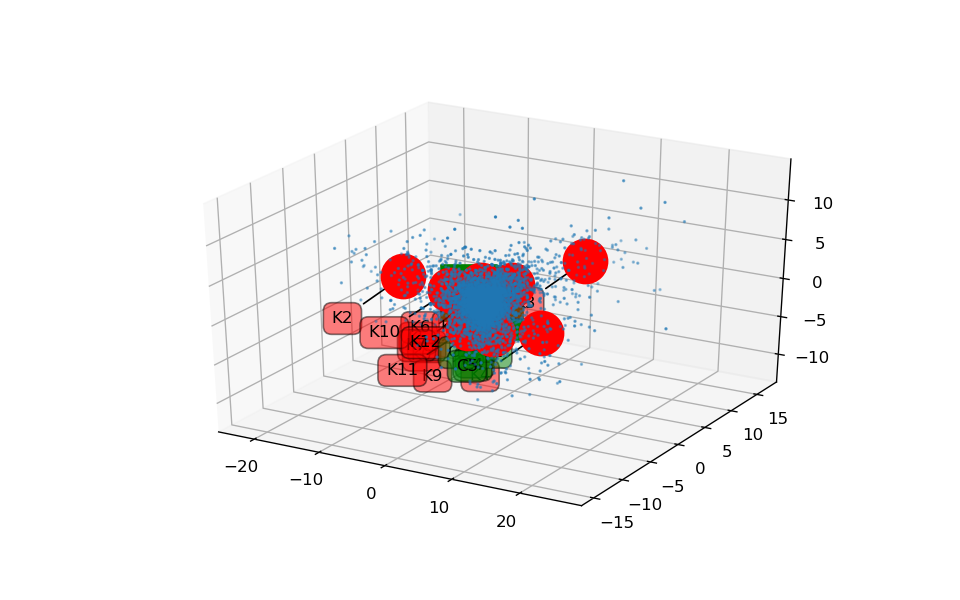
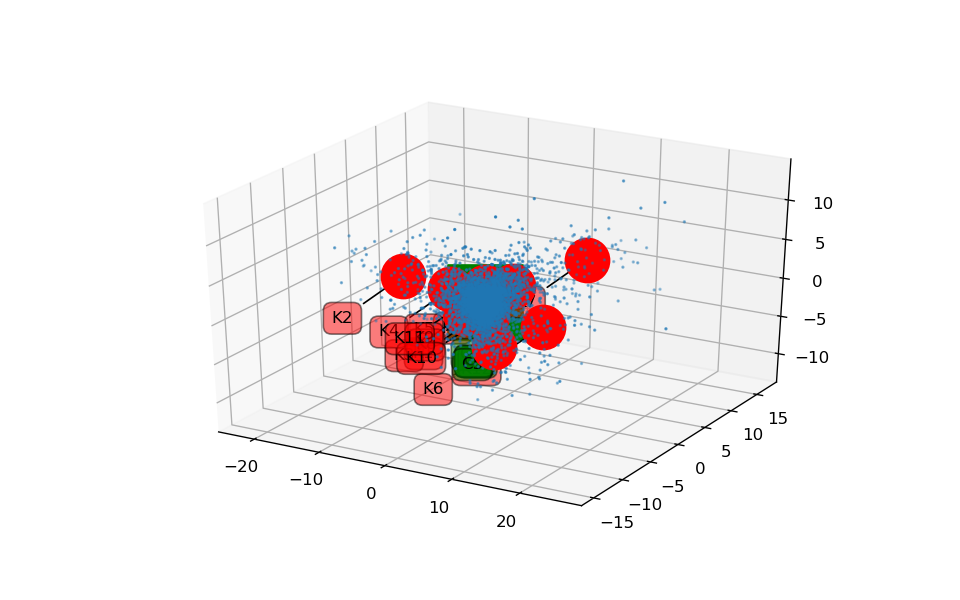
bert success to get massages by a specific cluster

diff --git a/BERT/filexist.py b/BERT/filexist.py
@@ -2,14 +2,21 @@
 
 #convert the json file to Conversation object
 from BERT.json2conversation import json2conversation
-
-conversations = json2conversation.parse_data_to_case_class("C:/Users/EILON/PycharmProjects/data_set/test"
-                 "/pan12-sexual-predator-identification-test-corpus-2012-05-21"
-                 "/pan12-sexual-predator-identification-test-corpus-2012-05-17")
-
-convs = set()
-convs.add(conversations[1])
-convs.add(conversations[1])
-convs.add(conversations[2])
-convs.add(conversations[3])
-print(len(convs))
+#
+# conversations = json2conversation.parse_data_to_case_class("C:/Users/EILON/PycharmProjects/data_set/test"
+#                  "/pan12-sexual-predator-identification-test-corpus-2012-05-21"
+#                  "/pan12-sexual-predator-identification-test-corpus-2012-05-17")
+a = [1,2,3]
+b = [2,3,4]
+c = [1,2,3]
+s = set()
+s.add(a)
+s.add(b)
+s.add(c)
+print(s)
+# convs = set()
+# convs.add(conversations[1])
+# convs.add(conversations[1])
+# convs.add(conversations[2])
+# convs.add(conversations[3])
+# print(len(convs))

diff --git a/BERT/main.py b/BERT/main.py
@@ -2,9 +2,9 @@ import networkx
 from gensim.models import KeyedVectors
 from gensim.test.utils import get_tmpfile
 
-from BERT import vectors2text
 from BERT.clustersBy3DVec import clustersBy3DVec
 from BERT.json2conversation import json2conversation
+from BERT.vectors2text import Vectors2Text
 from Step3 import Plotter
 
 
@@ -36,7 +36,11 @@ clusters = clustersBy3DVec(kmeans_centers_by_name,spectral_centers_by_name,conne
 selected_vectors = clusters.getAllVectorsByClusterName("K2")
 
 #find all the Conversation by list of vectors
+vectors2text = Vectors2Text(G,plotter.all_vectors_after_pca,conversations)
 selected_conversations = vectors2text.getConversationsByGroupOfVecs(selected_vectors)
 
 print(len(selected_conversations))
-print(selected_conversations[0].massage)
+for conv in selected_conversations:
+    for massage_obj in conv.messages:
+        print(massage_obj.message)
+

diff --git a/BERT/vectors2text.py b/BERT/vectors2text.py
@@ -1,16 +1,17 @@
-class vectors2text:
+class Vectors2Text:
     def __init__(self,G,vectors_3dim,conversations):
         self.G = G
         self.vectors_3dim = vectors_3dim
         # making vec 2 id
         self.Vec2Id_dic = {}
         for id, vec in zip(G.nodes(), vectors_3dim):
-            self.Vec2Id_dic[vec] = id
+            self.Vec2Id_dic[tuple(vec)] = id
         self.conversations = conversations
+
     #return all the Conversation object that match to the input vector list
     def getConversationsByGroupOfVecs(self,vecs_list):
         ConversationsByGroupOfVecs = []
-        id_set = {self.Vec2Id_dic[vec] for vec in vecs_list}#making set of IDs
+        id_set = {self.Vec2Id_dic[tuple(vec)] for vec in vecs_list}#making set of IDs
 
         for conversation in self.conversations:
             firstID = conversation.firstAuthor

diff --git a/API/client/server/Step3/algorithms/ConnectedComponents.py b/API/client/server/Step3/algorithms/ConnectedComponents.py
@@ -76,7 +76,7 @@ class ConnectedComponents:
             depthshade=False)
 
         # drow clusters label
-        cluster_name = ["C" + str(i) for i in range(min(len(self.component_centers), 6))]
+        cluster_name = ["C" + str(i) for i in range(min(len(self.component_centers), 10))]
         for i, name in enumerate(cluster_name):
             x2, y2, _ = proj3d.proj_transform(self.component_centers[i, 0], self.component_centers[i, 1],
                                               self.component_centers[i, 2], ax.get_proj())

diff --git a/Step3/API_Handler.py b/Step3/API_Handler.py
@@ -79,7 +79,7 @@ def main():
 
     #PCA from 64D to 3D
     plotter = Plotter.Plotter(G, model)
-    # plot = plotter.BaseGraph.getPlot()
+    plot = plotter.BaseGraph.getPlot()
     # plot.savefig("API_handler_results/BaseGraph.png")
 
     #results
